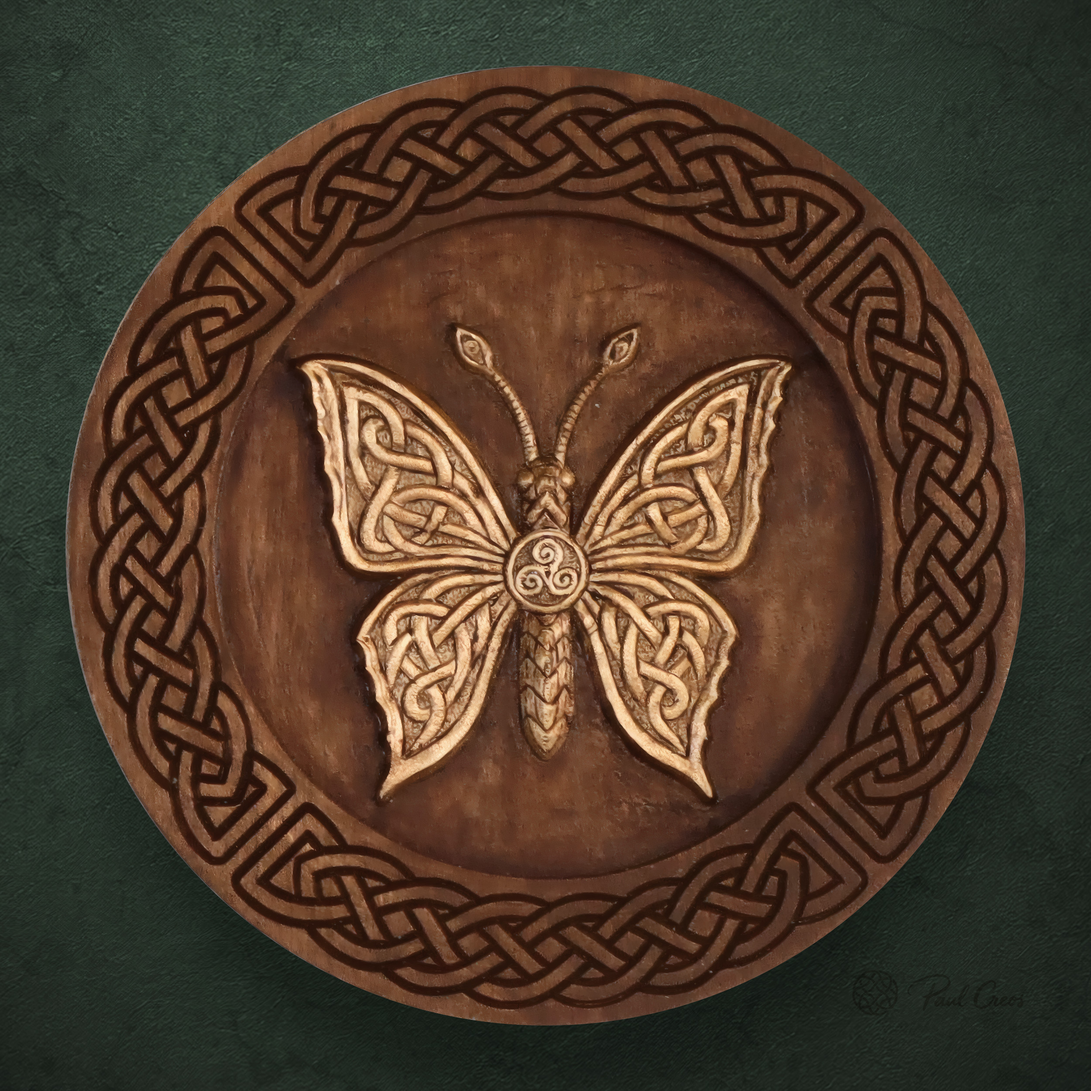
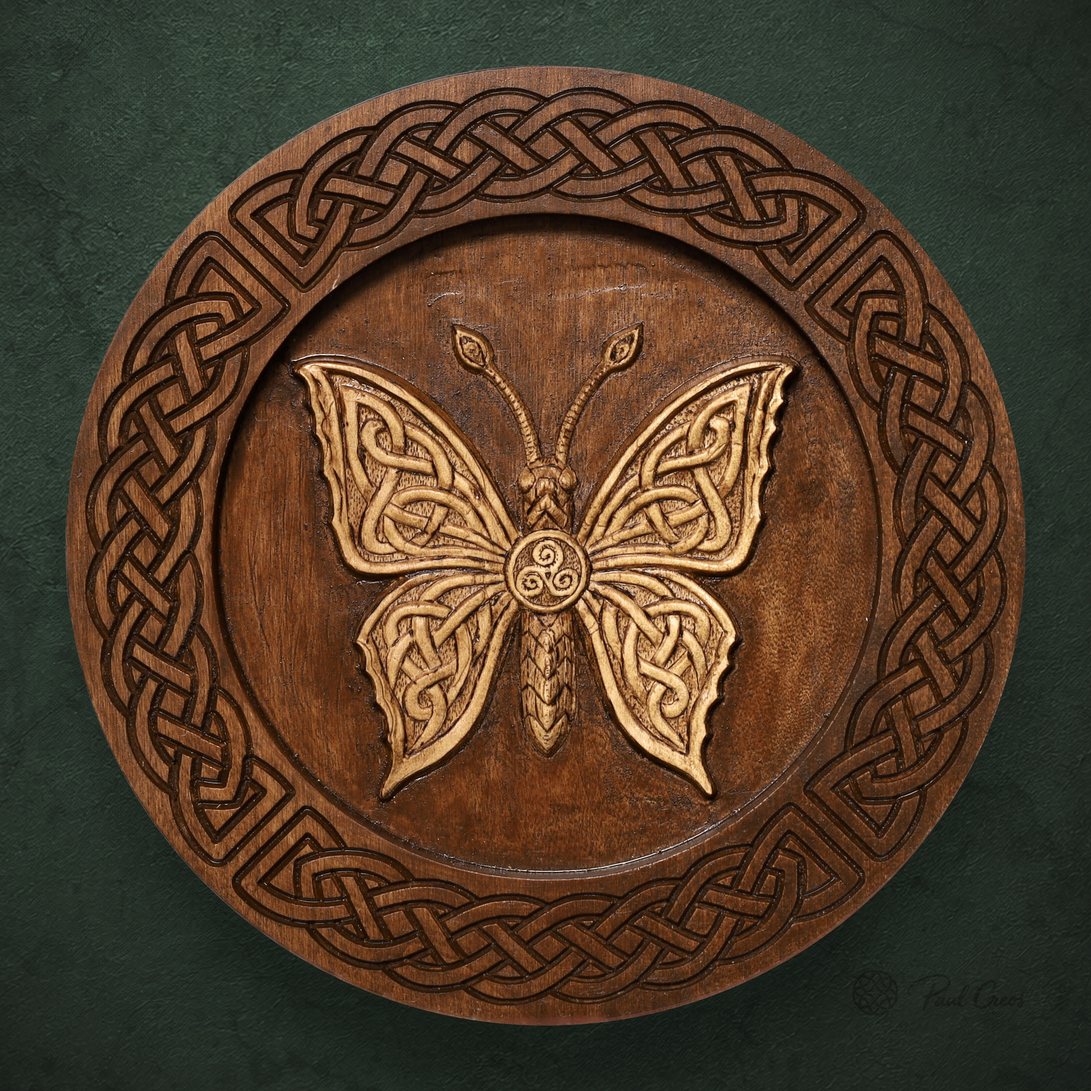
Refine work and article details

Changed region(s): [[0.0624, 0.0624, 0.936, 0.936]]

diff --git a/src/styles/global.css b/src/styles/global.css
@@ -1347,7 +1347,7 @@ h3 {
 }
 
 .articles-page .content-section > h1,
-.articles-page .article-header h1 {
+.articles-page .article-header:not(.article-detail-header) h1 {
   color: #e4bd80;
 }
 
@@ -1395,7 +1395,8 @@ h3 {
   color: #f8f4ed;
 }
 
-.work-detail-header {
+.work-detail-header,
+.article-detail-header {
   position: relative;
   z-index: 0;
   padding-block: clamp(2rem, 4vw, 3.5rem);
@@ -1408,16 +1409,28 @@ h3 {
   text-align: center;
 }
 
-.work-detail-header .breadcrumbs {
+.work-detail-header .breadcrumbs,
+.article-detail-header .breadcrumbs {
   margin: 0 0 clamp(1.75rem, 3.5vw, 3rem);
 }
 
-.work-detail-header .breadcrumbs ol {
+.work-detail-header .breadcrumbs ol,
+.article-detail-header .breadcrumbs ol {
   justify-content: center;
 }
 
-.work-detail-header h1 {
+.work-detail-header h1,
+.article-detail-header h1 {
   margin: 0;
+}
+
+.articles-page .article-detail-header h1 {
+  color: #f8f4ed;
+}
+
+.article-detail-header .article-meta {
+  margin: 0.8rem 0 0;
+  color: #e4bd80;
 }
 
 .work-page .eyebrow {
@@ -1426,6 +1439,10 @@ h3 {
 
 .work-page .article-shell {
   width: min(100% - 2rem, var(--content-width));
+  padding-top: 0;
+}
+
+.articles-page .article-detail-shell {
   padding-top: 0;
 }
 
@@ -1916,11 +1933,69 @@ a.work-shop-link.is-private:hover {
 
 .work-story { padding: clamp(1rem, 2.5vw, 1.75rem) clamp(1rem, 3vw, 2rem); }
 .work-story > :last-child {
-  margin-top: clamp(3.5rem, 8vw, 6rem);
-  padding-top: clamp(2rem, 5vw, 3.5rem);
-  border-top: 1px solid rgb(228 189 128 / 0.2);
-  color: rgb(248 244 237 / 0.78);
+  position: relative;
+  margin-top: clamp(3rem, 7vw, 5rem);
+  padding: clamp(1.4rem, 3vw, 2rem) clamp(1.25rem, 4vw, 3rem);
+  border: 1px solid rgb(228 189 128 / 0.42);
+  border-radius: 0.35rem;
+  background:
+    linear-gradient(135deg, rgb(228 189 128 / 0.1), transparent 48%),
+    rgb(18 24 17 / 0.44);
+  box-shadow: inset 0 1px rgb(255 239 209 / 0.07), 0 0.7rem 1.8rem rgb(5 7 5 / 0.18);
+  color: #e4bd80;
+  font-family: var(--font-display);
+  font-size: clamp(1.05rem, 2vw, 1.25rem);
+  font-style: italic;
+  line-height: 1.55;
   text-align: center;
+  text-wrap: balance;
+}
+
+.back-to-top {
+  position: fixed;
+  right: clamp(1rem, 2.5vw, 2rem);
+  bottom: clamp(1rem, 2.5vw, 2rem);
+  z-index: 20;
+  display: grid;
+  width: 2.9rem;
+  height: 2.9rem;
+  padding: 0;
+  border: 1px solid #78a874;
+  border-radius: 50%;
+  place-items: center;
+  background: #304238;
+  box-shadow: 0 0.55rem 1.4rem rgb(5 7 5 / 0.34);
+  color: #f8f4ed;
+  cursor: pointer;
+  opacity: 1;
+  transition: background 180ms ease, border-color 180ms ease, box-shadow 180ms ease, color 180ms ease, opacity 180ms ease, transform 180ms ease;
+}
+
+.back-to-top[hidden] {
+  display: none;
+}
+
+.back-to-top svg {
+  width: 1.35rem;
+  height: 1.35rem;
+  fill: none;
+  stroke: currentColor;
+  stroke-linecap: round;
+  stroke-linejoin: round;
+  stroke-width: 1.7;
+}
+
+.back-to-top:hover {
+  border-color: #f8e3be;
+  background: #263f2c;
+  box-shadow: 0 0.75rem 1.7rem rgb(5 7 5 / 0.44), 0 0 0 3px rgb(228 189 128 / 0.13);
+  color: #fff7e9;
+  transform: translateY(-0.16rem);
+}
+
+.back-to-top:focus-visible {
+  outline: 2px solid #f8e3be;
+  outline-offset: 3px;
 }
 
 .work-cover {

diff --git a/src/content/articles/the-moth-in-celtic-and-druidic-tradition.md b/src/content/articles/the-moth-in-celtic-and-druidic-tradition.md
@@ -101,6 +101,8 @@ The moth offers a quieter image of transformation than the butterfly. It does no
 
 ## Moth and Wood
 
+![Moth I, a hand-carved wooden roundel with an ornate moth, central triskele, and Celtic knotwork border](./images/moth-i.jpg)
+
 Wood may seem distant from such a delicate creature. It is solid, heavy, and marked by years of growth, while the moth is light, mobile, and short-lived. That contrast gives the image its strength.
 
 Wood preserves time. The moth embodies a moment of change.
